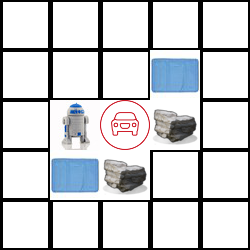
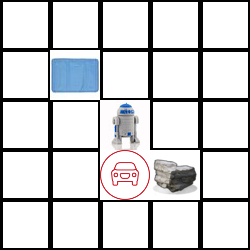
Add greedy and A*

Changed region(s): [[0.196, 0.196, 0.812, 0.812]]

diff --git a/GenericSearch.py b/GenericSearch.py
@@ -27,10 +27,10 @@ def Search(problem, strategy, visualize, gui=None):
             if (tracker.stateExist(node.state,visitedStates)==False):
                 newNodes.put(node)
                 visitedStates.append(node.state)
-        Queueingfunction(newNodes,strategy)
+        Queueingfunction(newNodes,strategy, problem)
     return
-
-def Queueingfunction(newNodes,strategy):
+# problem.pathCostFunction(node)
+def Queueingfunction(newNodes,strategy, problem):
     global nodes
     global max_depth
     if strategy == "BFS":
@@ -51,9 +51,49 @@ def Queueingfunction(newNodes,strategy):
        for node in templist:
            nodes.put(node)
     if strategy == "ID":
-                  while not nodes.empty():
-                      newNodes.put(nodes.get())
-                  while not newNodes.empty():
-                      tempNode = newNodes.get()
-                      if tempNode.depth<=max_depth:
-                          nodes.put(tempNode)
+      while not nodes.empty():
+          newNodes.put(nodes.get())
+      while not newNodes.empty():
+          tempNode = newNodes.get()
+          if tempNode.depth<=max_depth:
+              nodes.put(tempNode)
+    if strategy == "G":
+        costs = []
+        nodeList = []
+        while not nodes.empty():
+            one_node = nodes.get()
+            nodeList.append(one_node)
+        while not newNodes.empty():
+            one_node = newNodes.get()
+            nodeList.append(one_node)
+            # newNodes.put(one_node)
+        for nodeInArray in nodeList:
+            costs.append(problem.pathCostFunction(nodeInArray))
+        order = np.argsort(costs)
+        ordered_nodes = []
+        for index in range(len(order)):
+            ordered_nodes.insert(order[index], nodeList[index])
+        # for index, el in order:
+            # ordered_nodes.insert(el, nodeList[index])
+        for node in ordered_nodes:
+            nodes.put(node)
+    if strategy == "A*":
+        costs = []
+        nodeList = []
+        while not nodes.empty():
+            one_node = nodes.get()
+            nodeList.append(one_node)
+        while not newNodes.empty():
+            one_node = newNodes.get()
+            nodeList.append(one_node)
+            # newNodes.put(one_node)
+        for nodeInArray in nodeList:
+            costs.append(problem.pathCostFunction(nodeInArray)+nodeInArray.cost)
+        order = np.argsort(costs)
+        ordered_nodes = []
+        for index in range(len(order)):
+            ordered_nodes.insert(order[index], nodeList[index])
+        # for index, el in order:
+            # ordered_nodes.insert(el, nodeList[index])
+        for node in ordered_nodes:
+            nodes.put(node)

diff --git a/index.py b/index.py
@@ -4,6 +4,26 @@ import SearchNode
 from State import State
 import GenericSearch
 import numpy as np
+import heuristics
+from termcolor import colored
+
+def output(result_node, strategy):
+    if result_node != None:
+        path = []
+        print_path = []
+        path.append(result_node.operator)
+        parent = result_node.parent
+        while parent != None:
+            if parent.operator != None:
+                path.append(parent.operator)
+            parent = parent.parent
+        print("Solution:")
+        for value in reversed(path):
+            print_path.append(value)
+        print (strategy, colored(print_path, 'blue'))
+    else:
+        return
+
 def run(gui):
         grid = GridGenerator.GenGrid()
         r2d2 = np.argwhere(grid==2)
@@ -13,30 +33,17 @@ def run(gui):
         def goalTestFunction(state):
             return (state.max == 0)
 
-        problem = SearchProblem.createSearchProblem(initialState, operators, goalTestFunction)
-        result_node = GenericSearch.Search(problem, "BFS", True, gui=gui)
+        def pathCostFunction(node):
+            return heuristics.HeuristicOne(node.state.grid)
 
-        # for depth in range(99999999):
-        #     print ('the actual depth',depth)
-        #     GenericSearch.max_depth = depth
-        #     print(GenericSearch.max_depth)
-        #     result_node = GenericSearch.Search(problem, "ID", True, gui=gui)
-        #     if result_node != None:
-        #         print('the depth is ',depth)
-        #         break
-
-        if result_node != None:
-            path = []
-            print_path = []
-            path.append(result_node.operator)
-            parent = result_node.parent
-            while parent != None:
-                if parent.operator != None:
-                    path.append(parent.operator)
-                parent = parent.parent
-            print("Solution:")
-            for value in reversed(path):
-                print_path.append(value)
-            print (print_path)
-        else:
-            print("Found no solution")
+        problem = SearchProblem.createSearchProblem(initialState, operators, goalTestFunction, pathCostFunction)
+        for strategy in ["BFS", "DFS", "UC", "G", "A*"]:
+            result_node = GenericSearch.Search(problem, strategy, True, gui=gui)
+            output(result_node, strategy)
+        for depth in range(99999999):
+            GenericSearch.max_depth = depth
+            result_node = GenericSearch.Search(problem, "ID", True, gui=gui)
+            output(result_node, "ID")
+            if result_node != None:
+                print('the depth is ',depth)
+                break

diff --git a/heuristics.py b/heuristics.py
@@ -4,13 +4,16 @@ import math
 
 def getDistance(p1, p2):
     return math.sqrt((p2[1]-p1[1])**2+(p2[0]-p1[0])**2)
+def getActualDistance(p1, p2):
+    return math.fabs(p2[1]-p1[1])+math.fabs(p2[0]-p1[0])
 
 def HeuristicOne(grid):
-    print(grid)
+    # print(grid)
     rocks = np.argwhere(grid==1)
     r2d2 = np.argwhere(grid==2)
     teleporter = np.argwhere(grid==-2)
-
+    if len(r2d2) == 0:
+        return 0
     distances = []
     distanceSum = 0
     lastPosition = r2d2[0]
@@ -23,8 +26,31 @@ def HeuristicOne(grid):
         np.delete(rocks, indexOfSmallestDistance)
         distances = []
 
-    distanceSum += getDistance(r2d2[0],teleporter[0])
-    print(distanceSum)
+    distanceSum += getDistance(lastPosition,teleporter[0])
+    # print(distanceSum)
+    return distanceSum
+def HeuristicTwo(grid):
+    # print(grid)
+    rocks = np.argwhere(grid==1)
+    r2d2 = np.argwhere(grid==2)
+    teleporter = np.argwhere(grid==-2)
+    if len(r2d2) == 0:
+        return 0
+    distances = []
+    distanceSum = 0
+    lastPosition = r2d2[0]
+    for i in range(len(rocks)):
+        for j in range(len(rocks)):
+            distances.append(getActualDistance(lastPosition,rocks[j]))
+        indexOfSmallestDistance = np.argmin(distances)
+        lastPosition = rocks[indexOfSmallestDistance]
+        distanceSum += distances[indexOfSmallestDistance]
+        np.delete(rocks, indexOfSmallestDistance)
+        distances = []
 
-grid = GridGenerator.GenGrid()
-HeuristicOne(grid)
+    distanceSum += getActualDistance(lastPosition,teleporter[0])
+    # print(distanceSum)
+    return distanceSum
+
+# grid = GridGenerator.GenGrid()
+# HeuristicTwo(grid)

diff --git a/SearchProblem.py b/SearchProblem.py
@@ -1,7 +1,7 @@
 import numpy as np
 class SearchProblem():
     """docstring for SearchProblem."""
-    def __init__(self, initialState, operators, goalTestFunction):
+    def __init__(self, initialState, operators, goalTestFunction, pathCostFunction):
         """The search problem is as follows:
             Initial state: (x, y, grid, max) where x and y are R2D2's coordinates, grid is the current grid and max is the maximum value of the grid
             Operators: (up, down, left, right) directions in which R2D2 can move
@@ -12,6 +12,7 @@ class SearchProblem():
         self.initialState = initialState
         self.operators = operators
         self.goalTestFunction = goalTestFunction
+        self.pathCostFunction = pathCostFunction
 
-def createSearchProblem(initialState, operators, goalTestFunction):
-    return SearchProblem(initialState, operators, goalTestFunction)
+def createSearchProblem(initialState, operators, goalTestFunction, pathCostFunction):
+    return SearchProblem(initialState, operators, goalTestFunction, pathCostFunction)

diff --git a/GridGenerator.py b/GridGenerator.py
@@ -6,7 +6,7 @@ grid = np.zeros((m, m))
 # ROCKS = 1, PADS = -1, R2D2 = 2, TELEPORTER = -2, FULL PAD = -3
 
 def GenGrid():
-    rocks = 2 #np.random.randint(m)
+    rocks = 1 #np.random.randint(m)
     for n in range(rocks):
         placeRock()
         placePad()
